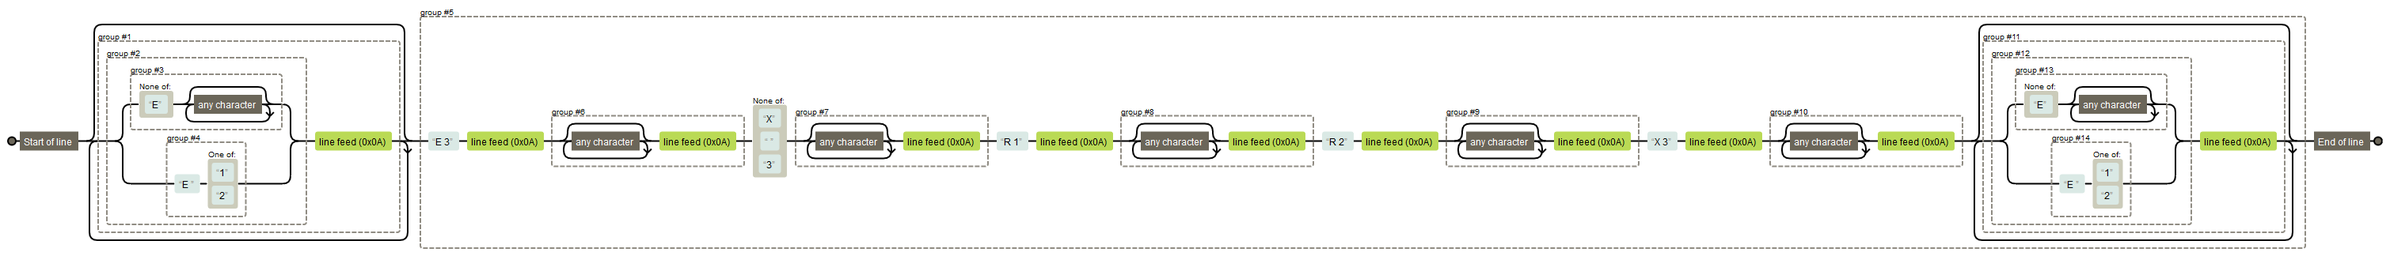
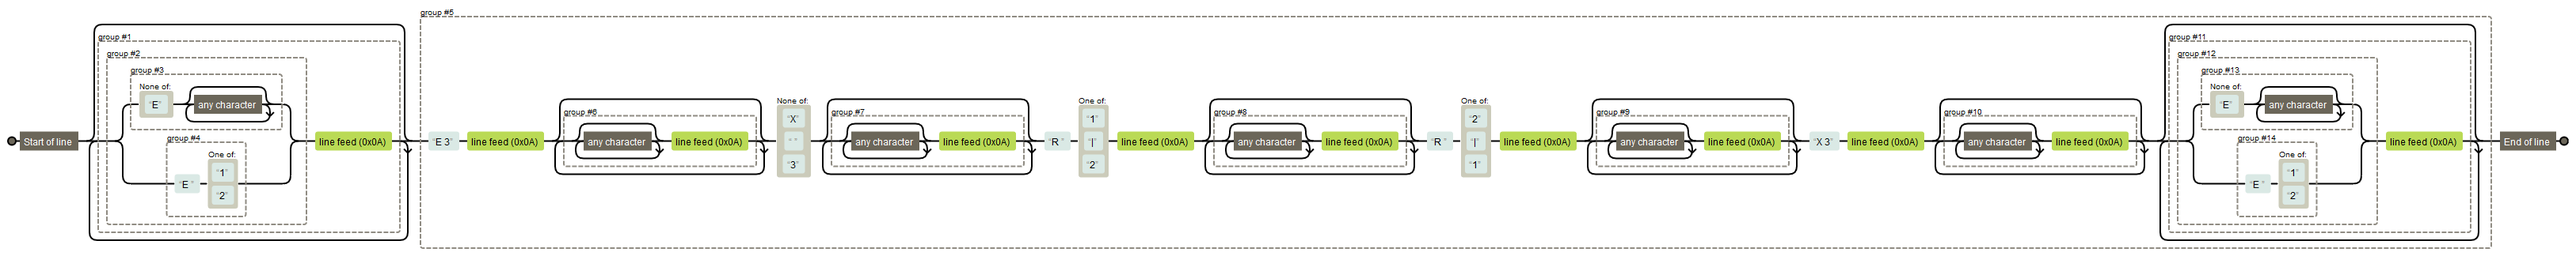
Use Case 3 regex, FSA, code almost done

diff --git a/scanner.py b/scanner.py
@@ -198,6 +198,7 @@ class NumberScanner(Scanner):
 	def entry(self, state, input):
 		pass
 
+## An example scanner, see http://msdl.cs.mcgill.ca/people/hv/teaching/SoftwareDesign/COMP304B2003/assignments/assignment3/solution/
 class CellRefScanner(Scanner):
 	def __init__(self, stream):
 		# superclass constructor
@@ -306,3 +307,149 @@ class CellRefScanner(Scanner):
 			self.rowIsAbsolute = True
 		elif state == "S6":
 			self.row = ord(string.lower(input)) - ord('0')
+
+
+class UseCase3Scanner(Scanner):
+	def __init__(self, stream):
+   		# superclass constructor
+		Scanner.__init__(self, stream)
+
+		# define alphabet
+		self.alphabet = ['E', 'R', 'G', 'X', '1', '2', '3', ' ']
+
+		# define accepting states
+		self.accepting_states=["S14"]
+
+	def __str__(self):
+  		return self.string
+
+  	def transition(self, state, input):
+		"""
+		Encodes transitions and actions
+		"""
+
+		if state == None:
+			self.string = ""
+			self.seenR1 = False
+			self.seenR2 = False
+			return "S0"
+
+		elif state == "S0":
+			if input == 'E':
+				return "S1"
+			elif input != 'E':
+				return "S0"
+			else:
+				return None
+
+		elif state == "S1":
+			if input == ' ':
+				return "S2"
+			else:
+				return None
+
+		elif state == "S2":
+			if input == '3':
+				return "S3"
+			else:
+				return None
+
+		elif state == "S3":
+			if input == 'R':
+				return "S4"
+			elif input == 'X':
+				if self.seenR1 or self.seenR2:
+					return "S3"
+				else:
+					return None
+			elif input != 'R':
+				return "S3"
+			else:
+				return None
+
+		elif state == "S4":
+			if input == ' ':
+				return "S5"
+			else:
+				return None
+
+		elif state == "S5":
+			if input == '1':
+				self.seenR1 = True
+				return "S6"
+			elif input == '2':
+				self.seenR2 = True
+				return "S7"
+			else:
+				return None
+
+		elif state == "S6":
+			if input == 'R':
+				self.seenR1 = False
+				return "S8"
+			elif input != 'R' and input != 'X':
+				return "S6"
+			else:
+				return None
+
+		elif state == "S7":
+			if input == 'R':
+				self.seenR2 = False
+				return "S8"
+			elif input != 'R' and input != 'X':
+				return "S7"
+			else:
+				return None
+
+		elif state == "S8":
+			if input == ' ':
+				return "S9"
+			else:
+				return None
+
+		elif state == "S9":
+			if input == '1':
+				self.seenR1 = True
+				return "S10"
+			elif input == '2':
+				self.seenR2 = True
+				return "S11"
+			else:
+				return None
+
+		elif state == "S10":
+			if input == 'X':
+				self.seenR1 = False
+				return "S12"
+			elif input != 'R' and input != 'X':
+				return "S10"
+			else:
+				return None
+
+		elif state == "S11":
+			if input == 'X':
+				self.seenR2 = False
+				return "S12"
+			elif input != 'R' and input != 'X':
+				return "S11"
+			else:
+				return None
+
+		elif state == "S12":
+			if input == ' ':
+				return "S13"
+			else:
+				return None
+
+		elif state == "S13":
+			if input == '3':
+				return "S14"
+			else:
+				return None
+
+		else:
+			return None
+
+	def entry(self, state, input):
+		if input in self.alphabet:
+			self.string += input

diff --git a/tests.py b/tests.py
@@ -3,25 +3,56 @@ import charstream
 import scanner
 
 # Test Number FSA
-for inp in ["12", "12.3e+1", "12.3e1", "e3", "10ab", "10e3", "10E-3", ".10", ".10e3", "10.", "10.3e44"]:
-	str=charstream.CharacterStream(inp)
-	sc=scanner.NumberScanner(str)
-	success=sc.scan()
- 	if success:
-		print ">> recognized "+sc.__str__()
-		print ">> committing"
-		str.commit()
-	else: 
-		print ">> rejected"
-		print ">> rolling back"
-		str.rollback()
-	print str
-	print ""
+# for inp in ["12", "12.3e+1", "12.3e1", "e3", "10ab", "10e3", "10E-3", ".10", ".10e3", "10.", "10.3e44"]:
+# 	str=charstream.CharacterStream(inp)
+# 	sc=scanner.NumberScanner(str)
+# 	success=sc.scan()
+#  	if success:
+# 		print ">> recognized "+sc.__str__()
+# 		print ">> committing"
+# 		str.commit()
+# 	else: 
+# 		print ">> rejected"
+# 		print ">> rolling back"
+# 		str.rollback()
+# 	print str
+# 	print ""
 
-# Test CellRef FSA
-for inp in ["AAA", "A1", "b23", "ab$10", "$f$235", "ij$1"]:
+# # Test CellRef FSA
+# for inp in ["AAA", "A1", "b23", "ab$10", "$f$235", "ij$1"]:
+	# str=charstream.CharacterStream(inp)
+	# sc=scanner.CellRefScanner(str)
+	# success=sc.scan()
+ # 	if success:
+	# 	print ">> recognized "+sc.__str__()
+	# 	print ">> committing"
+	# 	str.commit()
+	# else: 
+	#   print ">> rejected"
+	#   print ">> rolling back"
+	#   str.rollback()
+	# print str
+	# print ""
+
+# Test UseCase3 FSA
+
+# Test strings die moeten matchen: 
+# 	"E 3R 1R 2X 3" = OK 
+# 	"E 3##R 1##R 2##X 3" OK
+#	"E 3#Een commentR 1#Nog een commentR 2#Nog een commentX 3" wordt gematched = OK
+# 	"E 3\n#Een commentR 1\n#Nog een commentR 2\n#Nog een commentX 3" wordt gematched = OK
+# 	"E 3\n#Een commentR 2\n#Nog een commentR 1\n#Nog een commentX 3" wordt gematched = OK
+
+# Test strings die niet mogen matchen:
+# 	"E 3\n#Een commentR 2\n#Nog een commentX 3" wordt NIET gematched = OK
+# 	"E 3\n#Een commentR 1\n#Nog een commentX 3" wordt NIET gematched = OK
+#	"E 3\n#Een commentX 3\n#Nog een commentR 1\n#Nog een commentX 3" wordt NIET gematched = OK
+#	"E 3\n#Een commentX 3\n#Nog een commentR 2\n#Nog een commentX 3" wordt NIET gematched = OK
+#	"E 3\n#Een commentX 3\n#Nog een commentR 2\n#Nog een commentR 1\n#Nog een commentX 3" wordt NIET gematched = OK
+
+for inp in ["E 3\n#Een commentR 2\n#Nog een commentR 1\n#Nog een commentX 3"]:
 	str=charstream.CharacterStream(inp)
-	sc=scanner.CellRefScanner(str)
+	sc=scanner.UseCase3Scanner(str)
 	success=sc.scan()
  	if success:
 		print ">> recognized "+sc.__str__()
